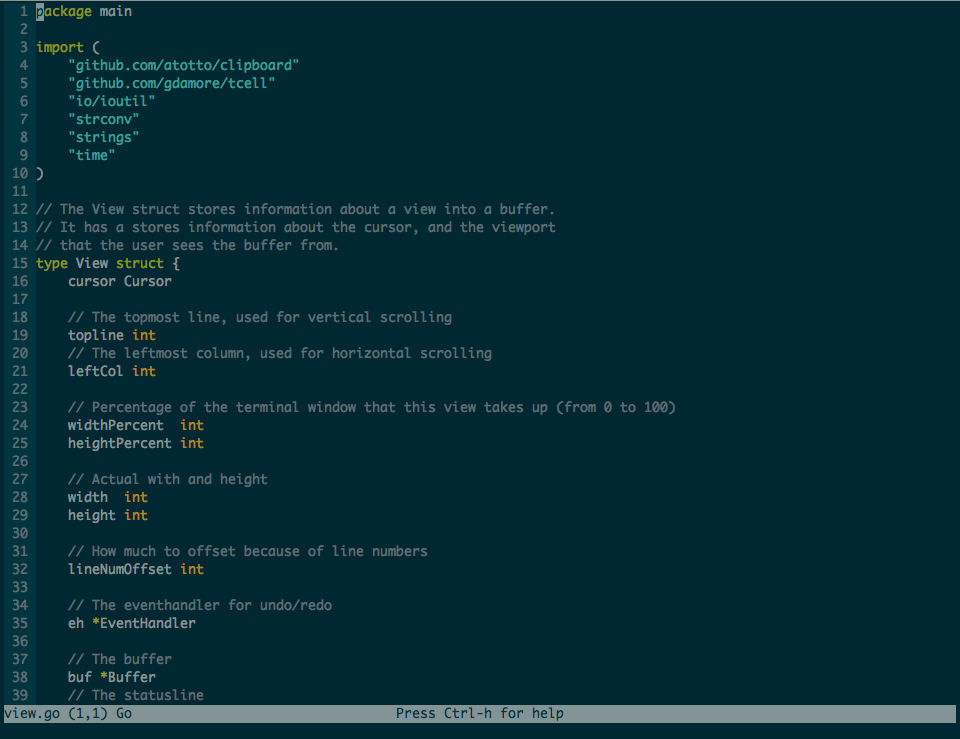
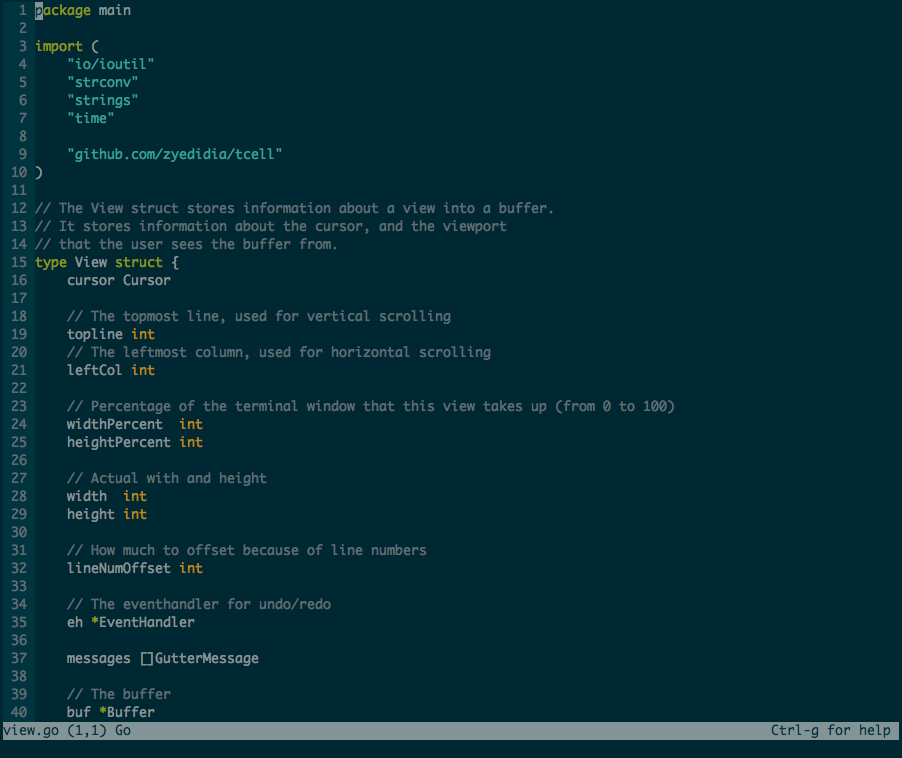
Update screenshot and status line

Changed region(s): [[0.0, 0.0, 0.745, 0.9959], [0.4035, 0.9337, 0.5898, 0.9959], [0.8381, 0.9337, 1.0, 0.9959]]

diff --git a/cmd/micro/statusline.go b/cmd/micro/statusline.go
@@ -40,9 +40,9 @@ func (sline *Statusline) Display() {
 	// Add the filetype
 	file += " " + sline.view.buf.filetype
 
-	centerText := "Press Ctrl-g to open help"
+	rightText := "Ctrl-g for help "
 	if helpOpen {
-		centerText = "Press Ctrl-g to close help"
+		rightText = "Ctrl-g to close help "
 	}
 
 	statusLineStyle := defStyle.Reverse(true)
@@ -55,8 +55,8 @@ func (sline *Statusline) Display() {
 	for x := 0; x < sline.view.width; x++ {
 		if x < len(fileRunes) {
 			screen.SetContent(x, y, fileRunes[x], nil, statusLineStyle)
-		} else if x >= sline.view.width/2-len(centerText)/2 && x < len(centerText)+sline.view.width/2-len(centerText)/2 {
-			screen.SetContent(x, y, []rune(centerText)[x-sline.view.width/2+len(centerText)/2], nil, statusLineStyle)
+		} else if x >= sline.view.width-len(rightText) && x < len(rightText)+sline.view.width-len(rightText) {
+			screen.SetContent(x, y, []rune(rightText)[x-sline.view.width+len(rightText)], nil, statusLineStyle)
 		} else {
 			screen.SetContent(x, y, ' ', nil, statusLineStyle)
 		}

diff --git a/cmd/micro/view.go b/cmd/micro/view.go
@@ -10,7 +10,7 @@ import (
 )
 
 // The View struct stores information about a view into a buffer.
-// It has a stores information about the cursor, and the viewport
+// It stores information about the cursor, and the viewport
 // that the user sees the buffer from.
 type View struct {
 	cursor Cursor

diff --git a/README.md b/README.md
@@ -104,7 +104,7 @@ You can run `$ micro -version` to get the version number. Since there is no rele
 commit hash. The version is unknown if you built with `go get`, instead use `make install` or `make` to get a binary
 with a version number defined.
 
-#### Help text
+### Help text
 
 See the [help text](./runtime/help/help.md) for information about keybindings, editor commands, colorschemes and
 configuration options.
